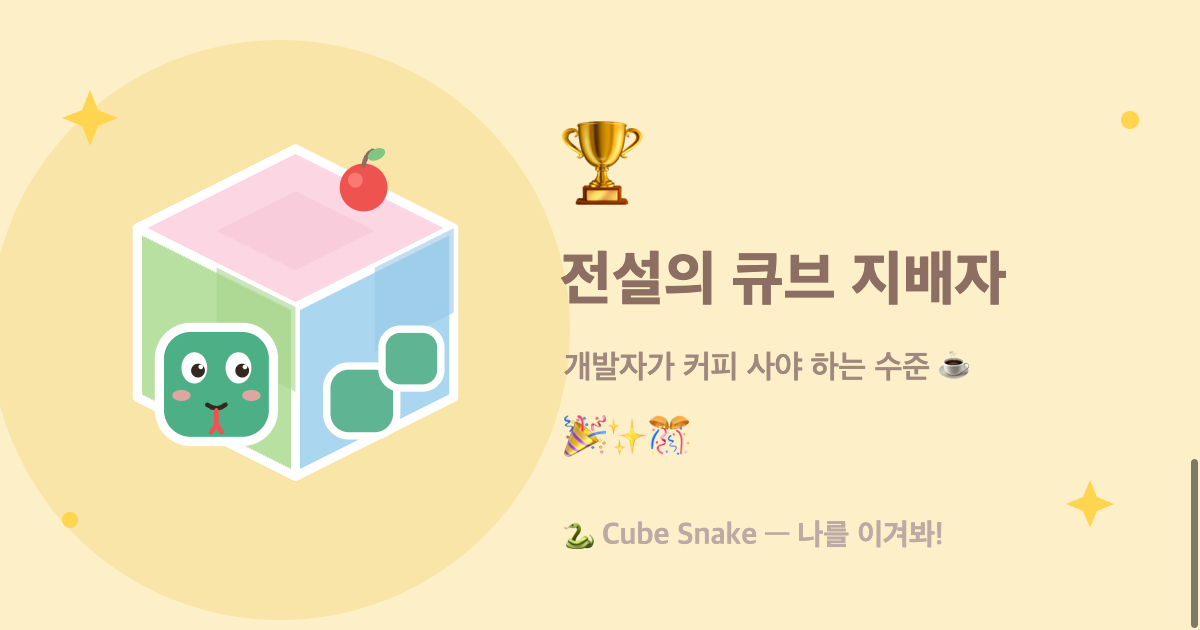
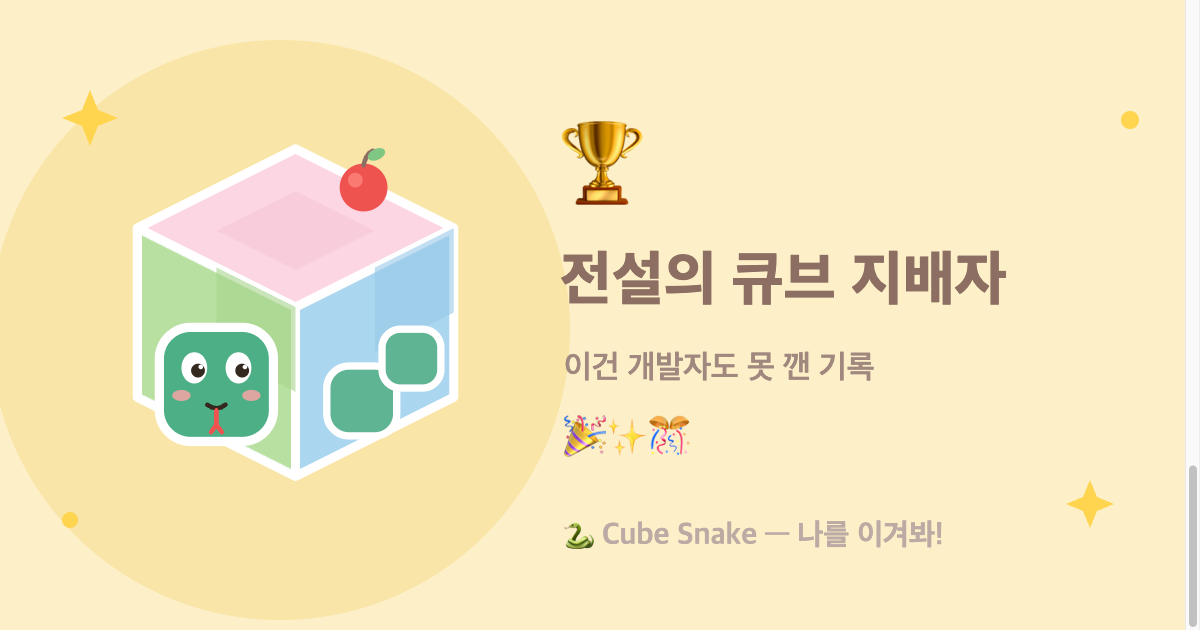
공유 카드에서 커피 이스터에그 스포일러 제거
- trophy 카드/공유 페이지: "개발자가 커피 사야 하는 수준" → "이건 개발자도 못 깬 기록"
- 메인 OG 설명에서 커피 언급 제거
- 커피 이벤트는 150점 달성자만 게임오버 화면에서 보는 이스터에그로 유지

Changed region(s): [[0.9867, 0.0, 1.0, 1.0], [0.4625, 0.5429, 0.8325, 0.6032]]

diff --git a/index.html b/index.html
@@ -13,7 +13,7 @@
 <link rel="apple-touch-icon" href="icon-180.png">
 <meta property="og:type" content="website">
 <meta property="og:title" content="🐍 Cube Snake — 큐브 위를 달리는 스네이크">
-<meta property="og:description" content="3D 큐브 표면을 기어다니는 귀여운 스네이크 게임. 150점 넘기면 개발자가 커피 쏨 ☕">
+<meta property="og:description" content="3D 큐브 표면을 기어다니는 귀여운 스네이크 게임. 모서리를 넘으면 세상이 돌아간다!">
 <meta property="og:image" content="https://junhee1219.github.io/cube-game/og/main.png">
 <meta property="og:image:width" content="1200">
 <meta property="og:image:height" content="630">

diff --git a/og-cards.html b/og-cards.html
@@ -14,7 +14,7 @@ const CARDS = [
   { id: 'clover', bg: '#e3f2da', bg2: '#d5eac8', emoji: '🍀', title: '제법인데요?',       sub: '큐브가 슬슬 만만해 보임',          deco: '🍓🍎' },
   { id: 'fire',   bg: '#fdeede', bg2: '#fbe2c9', emoji: '🔥', title: '고수의 향기',       sub: '모서리 넘나드는 폼이 미쳤음',      deco: '⭐🍒' },
   { id: 'crown',  bg: '#fdf3d6', bg2: '#fbecbe', emoji: '👑', title: '큐브 마스터 직전',   sub: '150점이면 좋은 일이 생긴다던데…',  deco: '⭐✨' },
-  { id: 'trophy', bg: '#fdf0c8', bg2: '#fae5a8', emoji: '🏆', title: '전설의 큐브 지배자', sub: '개발자가 커피 사야 하는 수준 ☕',  deco: '🎉✨🎊' },
+  { id: 'trophy', bg: '#fdf0c8', bg2: '#fae5a8', emoji: '🏆', title: '전설의 큐브 지배자', sub: '이건 개발자도 못 깬 기록',  deco: '🎉✨🎊' },
 ];
 
 // 게임 아이콘과 같은 아이소메트릭 큐브 + 뱀 아트

diff --git a/share/trophy.html b/share/trophy.html
@@ -5,7 +5,7 @@
 <title>🏆 전설의 큐브 지배자! — Cube Snake</title>
 <meta property="og:type" content="website">
 <meta property="og:title" content="🏆 전설의 큐브 지배자!">
-<meta property="og:description" content="개발자가 커피 사야 하는 수준 ☕ 나를 이겨봐!">
+<meta property="og:description" content="이건 개발자도 못 깬 기록… 나를 이겨봐!">
 <meta property="og:image" content="https://junhee1219.github.io/cube-game/og/trophy.png">
 <meta property="og:image:width" content="1200">
 <meta property="og:image:height" content="630">